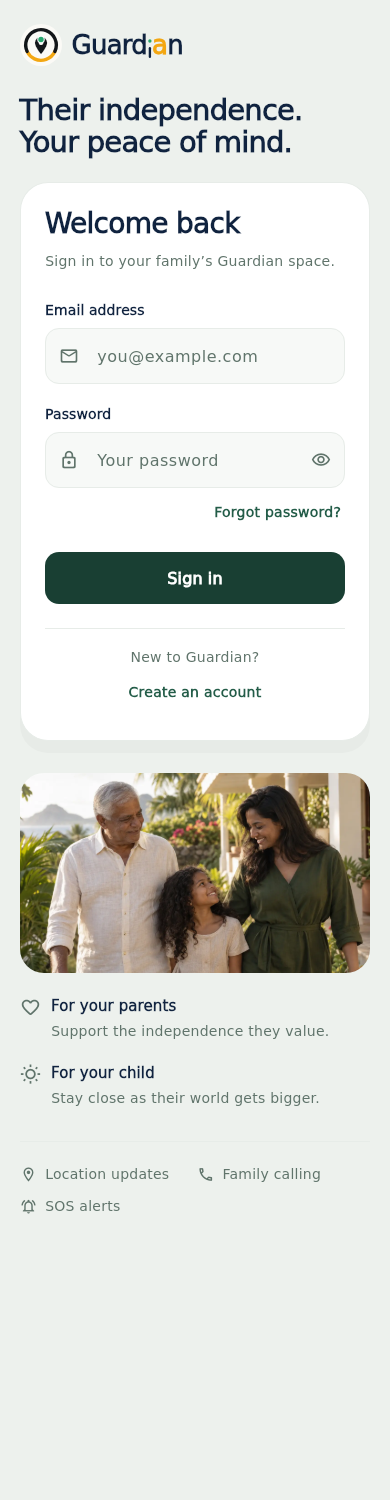
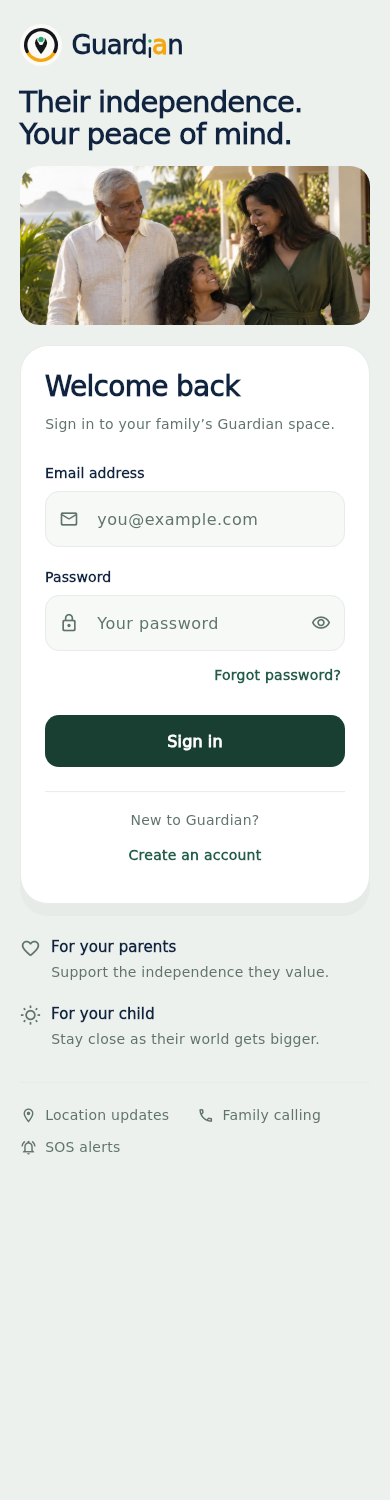
docs(ui): refresh mobile welcome previews and formatting

diff --git a/apps/mobile/lib/widgets/auth/guardian_welcome_layout.dart b/apps/mobile/lib/widgets/auth/guardian_welcome_layout.dart
@@ -55,7 +55,10 @@ class GuardianWelcomeLayout extends StatelessWidget {
                         const SizedBox(height: 20),
                         form,
                         const SizedBox(height: 32),
-                        const _FamilyStory(showHeadline: false, showPhoto: false),
+                        const _FamilyStory(
+                          showHeadline: false,
+                          showPhoto: false,
+                        ),
                       ],
                       const SizedBox(height: 32),
                       const _ServiceNotes(),
@@ -188,10 +191,7 @@ class _FamilyStory extends StatelessWidget {
           const _WelcomeHeadline(),
           const SizedBox(height: 28),
         ],
-        if (showPhoto) ...[
-          const _FamilyPhoto(),
-          const SizedBox(height: 22),
-        ],
+        if (showPhoto) ...[const _FamilyPhoto(), const SizedBox(height: 22)],
         LayoutBuilder(
           builder: (context, constraints) {
             final stacked =

diff --git a/docs/login-ui-refinement.md b/docs/login-ui-refinement.md
@@ -28,6 +28,7 @@ prompt and provenance are in [login-image-source.md](login-image-source.md).
 ![Desktop welcome](images/login-welcome/wide.png)
 
 [Phone](images/login-welcome/mobile.png) ·
+[400 × 730 viewport](images/login-welcome/mobile_viewport.png) ·
 [Dark phone](images/login-welcome/mobile_dark.png) ·
 [Create account](images/login-welcome/register.png)
 
